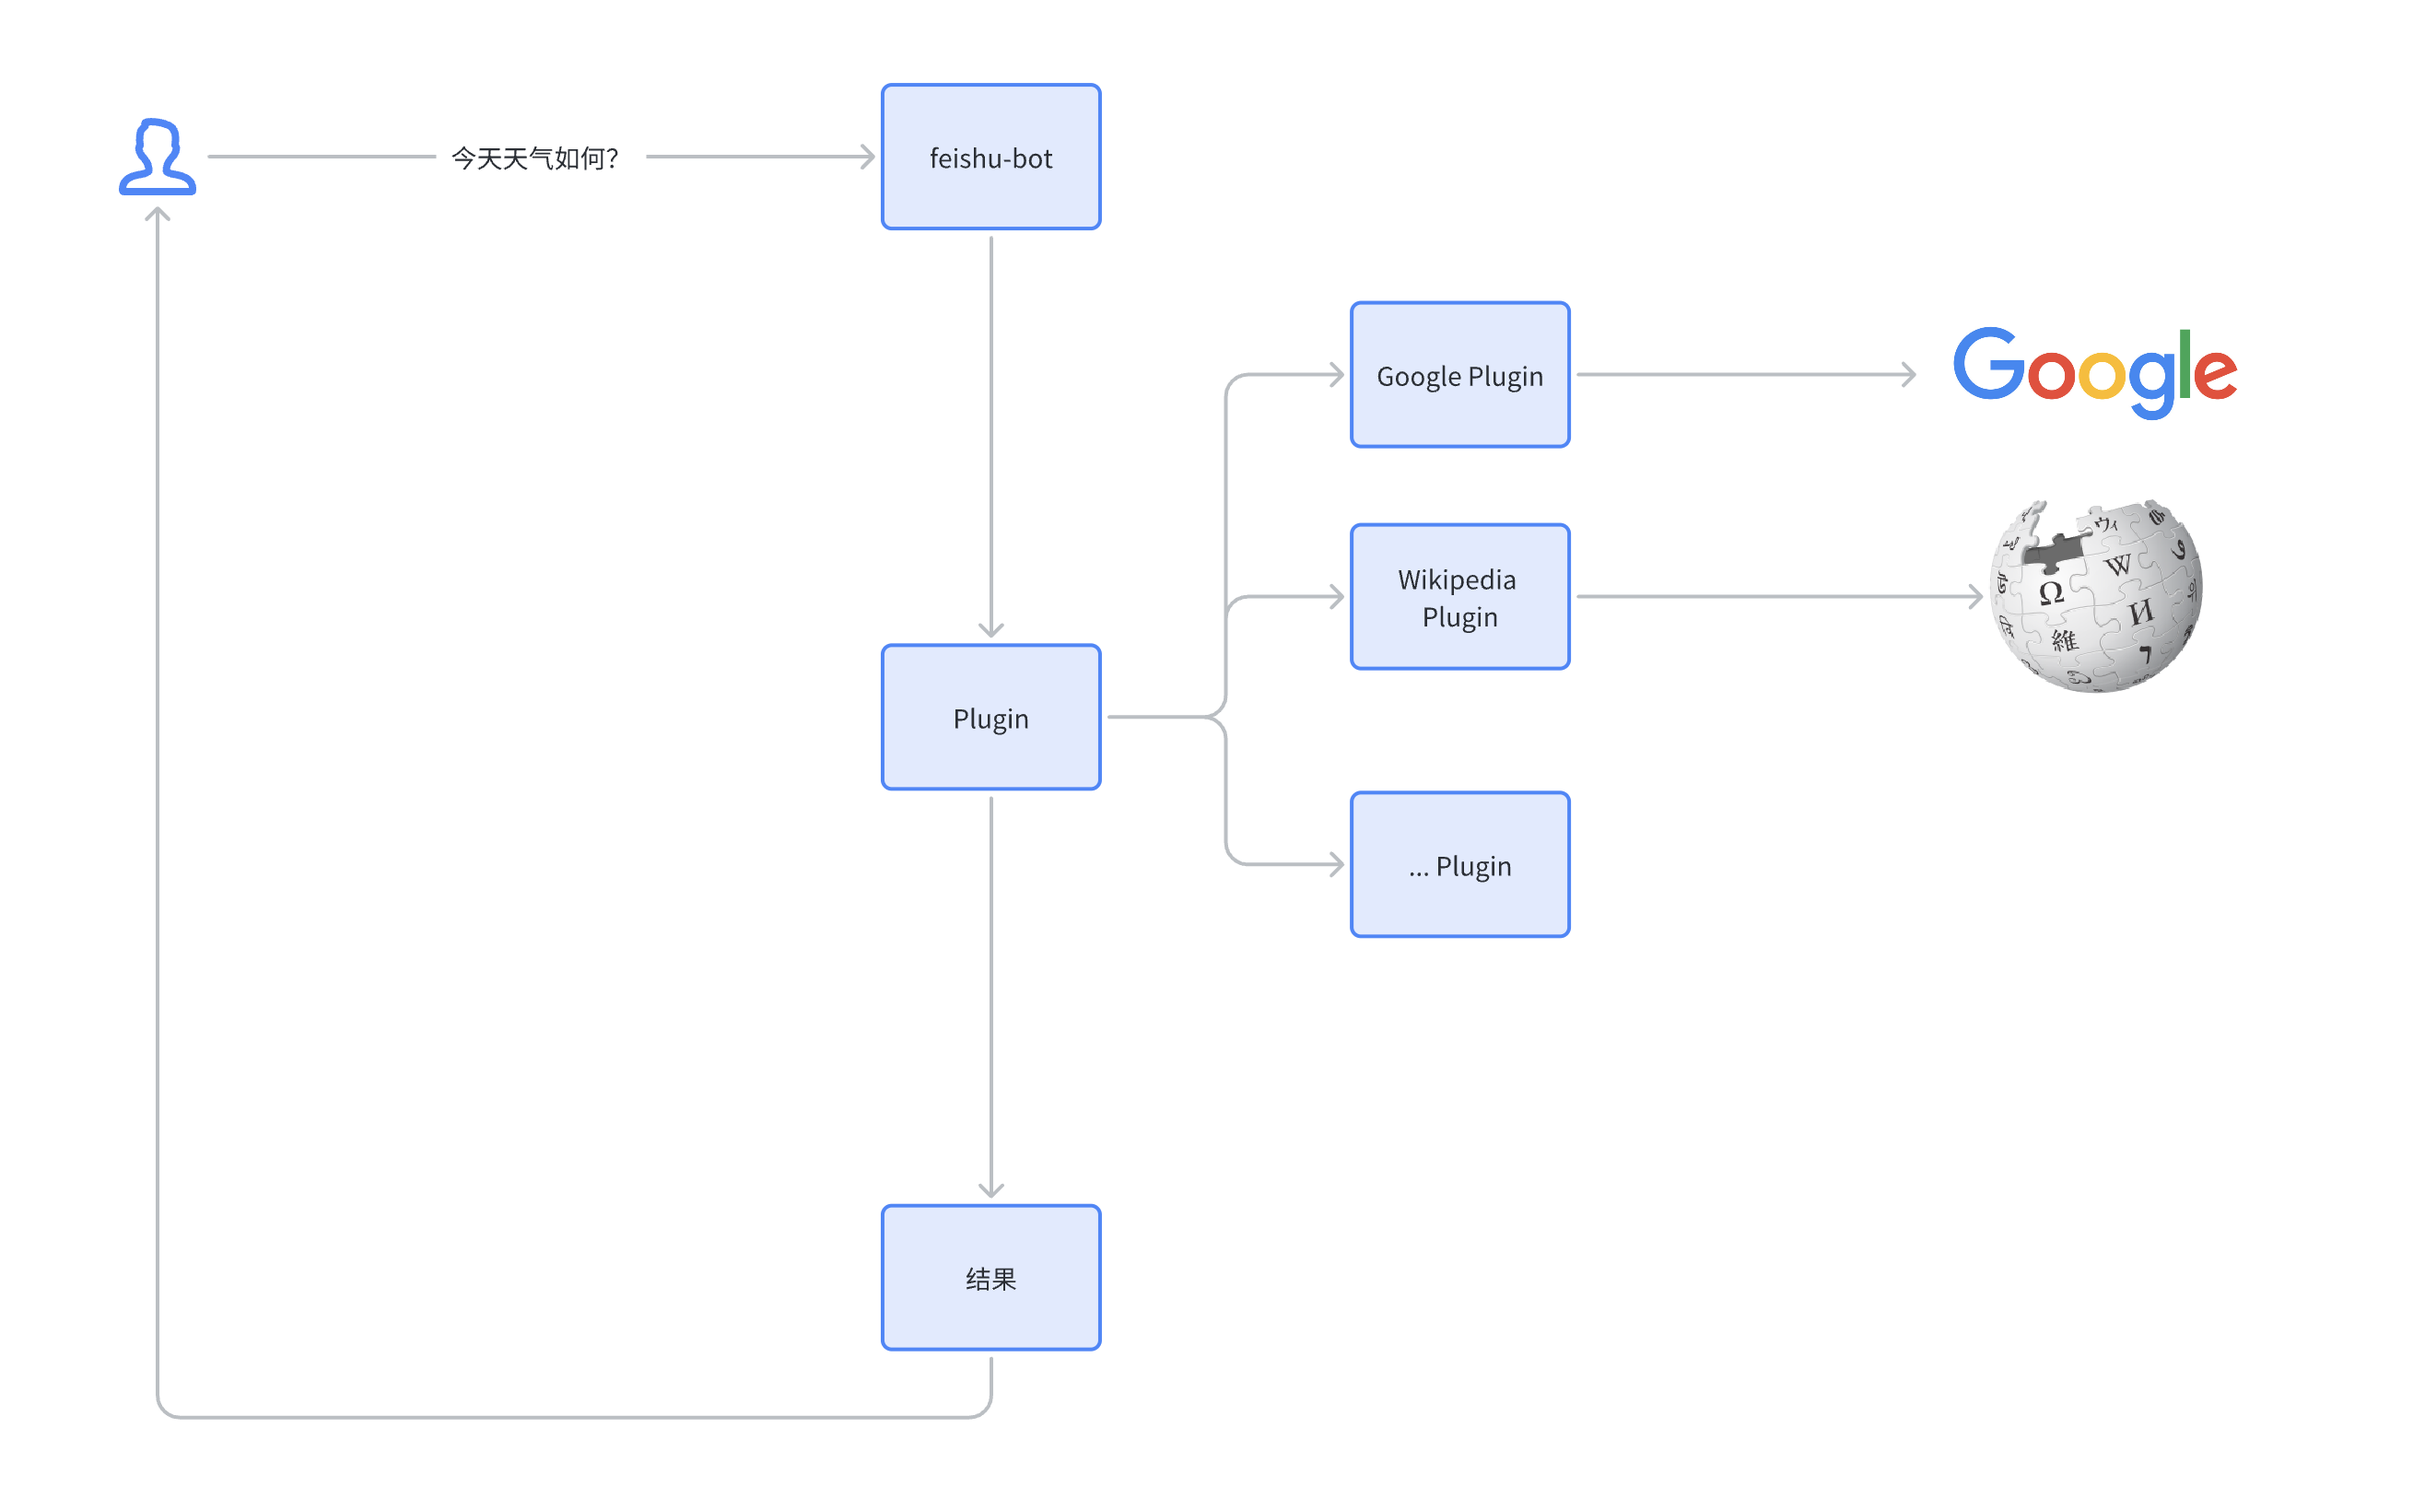
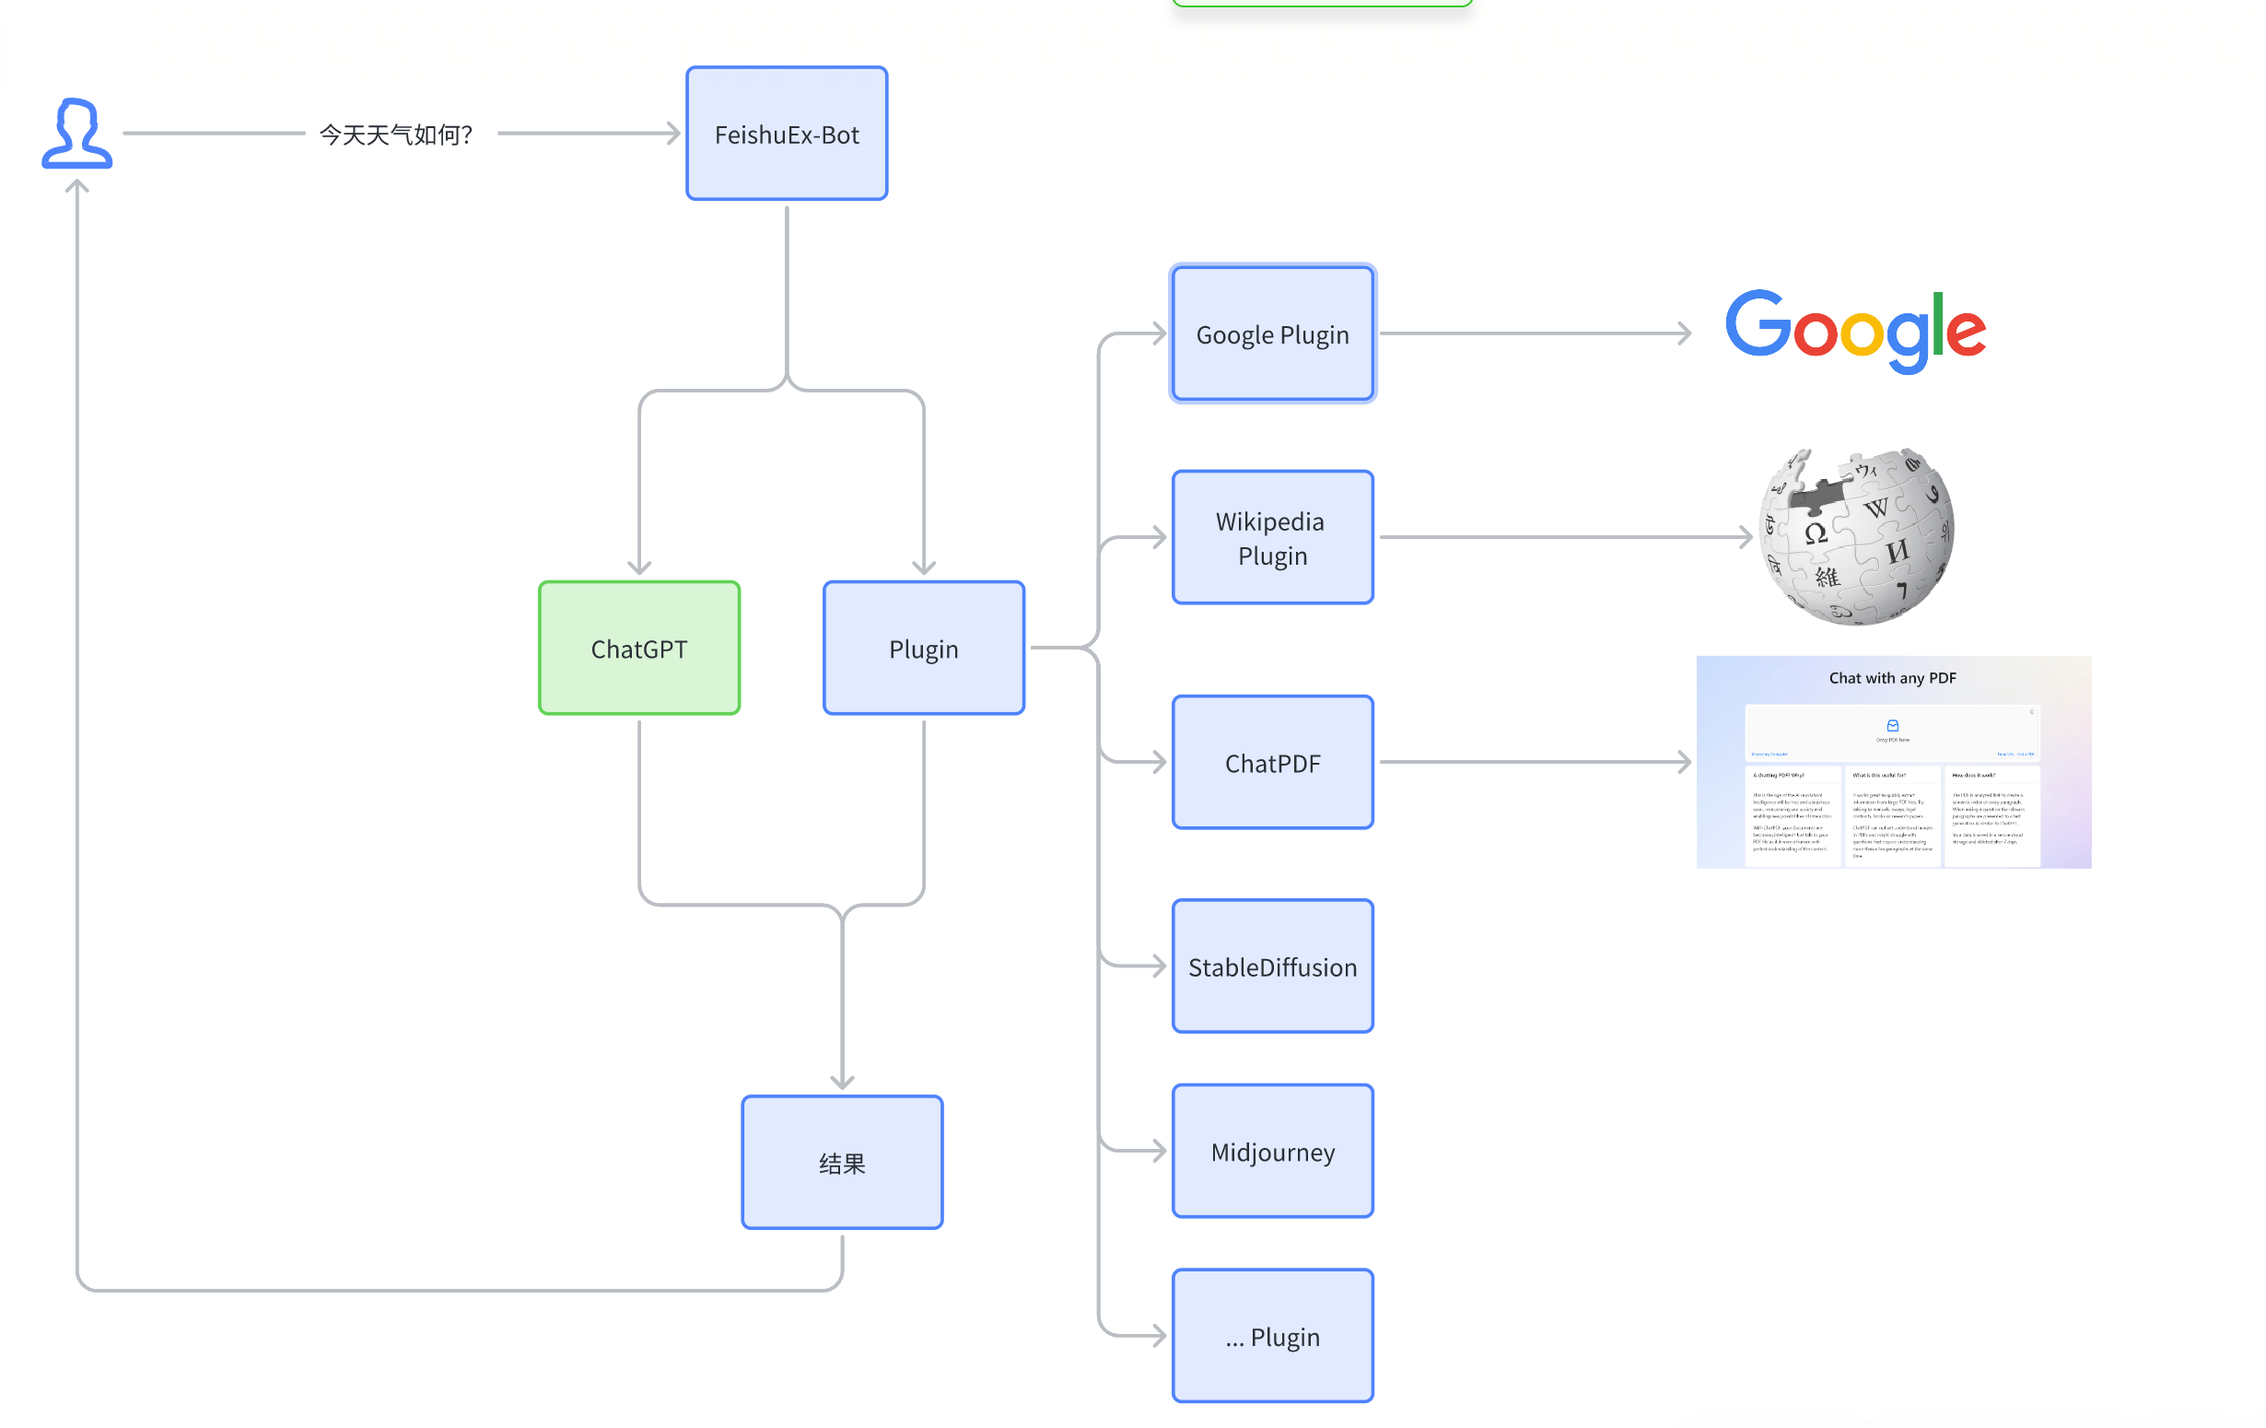
reply by chatgpt first

diff --git a/internal/domain/action_plugin.go b/internal/domain/action_plugin.go
@@ -21,8 +21,11 @@ func NewPluginAction(manager *llmplugin.PluginManager) *PluginAction {
 }
 
 func (a PluginAction) Execute(ctx context.Context, actionInfo *ActionInfo) (next bool, err error) {
+	if !actionInfo.UsePlugin() {
+		return true, nil
+	}
 
-	text := actionInfo.Message.GetText()
+	text := actionInfo.GetText()
 	pluginCtxs, err := a.manager.Select(context.Background(), text)
 	if err != nil {
 		logrus.Errorf("PluginAction Select error: %v", err)
@@ -33,7 +36,11 @@ func (a PluginAction) Execute(ctx context.Context, actionInfo *ActionInfo) (next
 	// NOTE(zy): 需要特别补充一下遗漏的 reply message id
 	result.ReplyMsgID = actionInfo.GetMessageID()
 
-	logrus.Debugf("got plugin result: %+v", result)
+	if result.Type != ActionResultImageB64 {
+		logrus.Debugf("got plugin result: %+v", result)
+	} else {
+		logrus.Debugf("got plugin result in base64 image")
+	}
 	actionInfo.Result = result
 
 	return true, nil

diff --git a/internal/domain/action_llm.go b/internal/domain/action_llm.go
@@ -19,6 +19,10 @@ func NewMessageAction(llmer LLMer) *MessageAction {
 
 func (a MessageAction) Execute(ctx context.Context, actionInfo *ActionInfo) (next bool, err error) {
 	if actionInfo.ExistsResult() {
+		return false, nil
+	}
+
+	if actionInfo.UsePlugin() {
 		return true, nil
 	}
 
@@ -30,6 +34,9 @@ func (a MessageAction) Execute(ctx context.Context, actionInfo *ActionInfo) (nex
 	}
 
 	messages := a.makeLlmMessages(msg)
+
+	logrus.Debugf("ask llm: %v", messages)
+
 	answer, err := a.llmer.Chat(ctx, messages)
 	if err != nil {
 		logrus.Errorf("MessageAction: llmer chat error: %v", err)
@@ -49,11 +56,11 @@ func (a MessageAction) Execute(ctx context.Context, actionInfo *ActionInfo) (nex
 }
 
 func (a MessageAction) makeLlmMessages(content string) []LlmMessage {
+
 	return []LlmMessage{
 		{
 			Role:    "user",
 			Content: content,
 		},
 	}
-
 }

diff --git a/internal/domain/actions.go b/internal/domain/actions.go
@@ -2,6 +2,7 @@ package domain
 
 import (
 	"context"
+	"strings"
 )
 
 type ActionResultType string
@@ -33,10 +34,19 @@ func (a *ActionInfo) GetMessageID() string {
 func (a *ActionInfo) GetText() string {
 	if msg := a.Message; msg != nil {
 
-		return msg.GetText()
+		return strings.TrimLeft(msg.GetText(), "#")
 	}
 
 	return ""
+}
+
+func (a *ActionInfo) UsePlugin() bool {
+	if msg := a.Message; msg != nil {
+		text := msg.GetText()
+		return strings.HasPrefix(text, "#")
+	}
+
+	return false
 }
 
 func (a *ActionInfo) ExistsResult() bool {

diff --git a/internal/domain/action_final_reply.go b/internal/domain/action_final_reply.go
@@ -1,0 +1,26 @@
+package domain
+
+import "context"
+
+var _ Action = (*FinalReply)(nil)
+
+type FinalReply struct {
+	text string
+}
+
+func NewFinalReply(text string) *FinalReply {
+	return &FinalReply{text}
+}
+
+func (a *FinalReply) Execute(ctx context.Context, actionInfo *ActionInfo) (next bool, err error) {
+
+	if actionInfo.Result == nil {
+		actionInfo.Result = &ActionResult{
+			ReplyMsgID: actionInfo.GetMessageID(),
+			Type:       ActionResultText,
+			Result:     a.text,
+		}
+	}
+
+	return true, nil
+}

diff --git a/cmd/main.go b/cmd/main.go
@@ -60,9 +60,11 @@ func main() {
 			domain.NewProcessUniqueAction(),
 			domain.NewHelperAction(),
 			domain.NewProcessMentionAction(botname),
+			domain.NewMessageAction(llm),
 
 			domain.NewPluginAction(llmManager),
-			domain.NewMessageAction(llm),
+
+			domain.NewFinalReply("摸鱼中，稍后重试"),
 		),
 	)
 	if err != nil {
